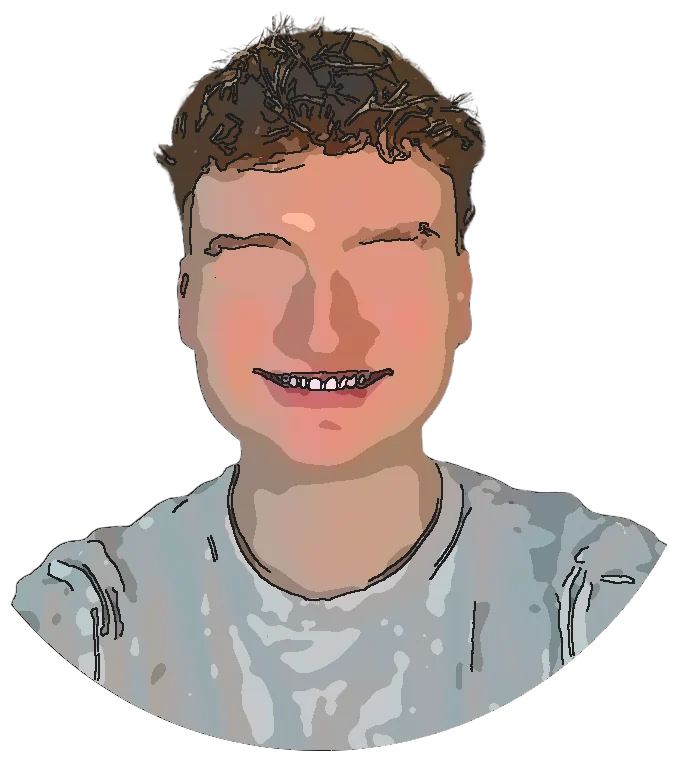
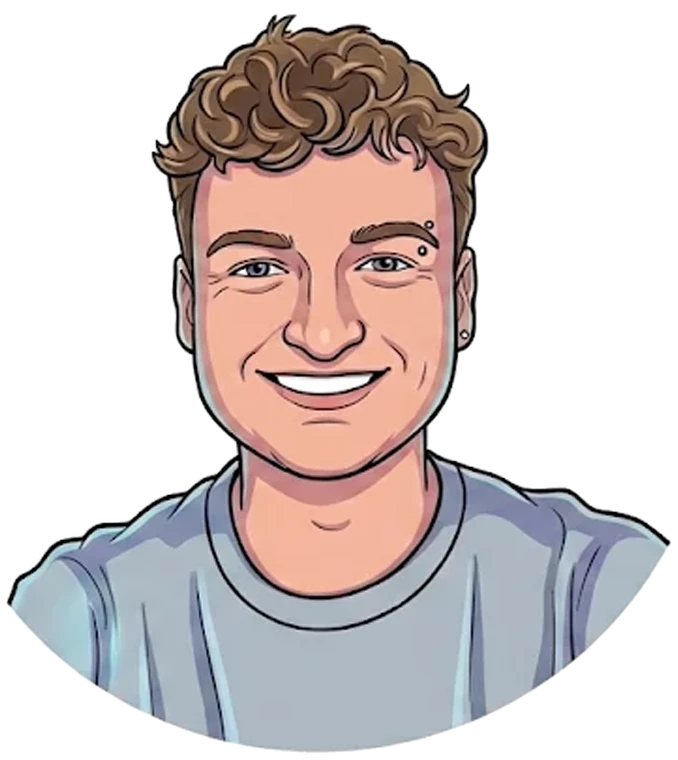
Portrait: Harry's illustrated version in the hover lens, with eyes that follow the cursor

diff --git a/index.html b/index.html
@@ -424,7 +424,7 @@ canvas.can-grab{cursor:var(--hand-grab)}
     <img class="me-photo" src="assets/me/me-photo.webp" alt="Harrison Greener" width="678" height="760">
     <div class="me-toon-layer" hidden>
       <img class="me-toon" src="assets/me/me-toon.webp" alt="" width="678" height="760">
-      <svg class="me-eyes" viewBox="0 0 678 760" aria-hidden="true"><g class="me-eye" transform="translate(259 269)"><path d="M-31 0 Q0 -19 31 0 Q0 19 -31 0Z" fill="#fff" stroke="#1F1F1F" stroke-width="3.5"/><g class="me-pupil"><circle r="10.5" fill="#6F8E95"/><circle r="5.5" fill="#1F1F1F"/><circle cx="3" cy="-3.5" r="2.4" fill="#fff"/></g></g><g class="me-eye" transform="translate(383 265)"><path d="M-31 0 Q0 -19 31 0 Q0 19 -31 0Z" fill="#fff" stroke="#1F1F1F" stroke-width="3.5"/><g class="me-pupil"><circle r="10.5" fill="#6F8E95"/><circle r="5.5" fill="#1F1F1F"/><circle cx="3" cy="-3.5" r="2.4" fill="#fff"/></g></g></svg>
+      <svg class="me-eyes" viewBox="0 0 678 760" aria-hidden="true"><g class="me-eye" transform="translate(258 270)"><clipPath id="meClip0"><path d="M-24 0 Q0 -14 24 0 Q0 12 -24 0Z"/></clipPath><path d="M-24 0 Q0 -14 24 0 Q0 12 -24 0Z" fill="#FBFBFA"/><g clip-path="url(#meClip0)"><g class="me-pupil"><circle r="9.5" fill="#647A99" stroke="#2E3A4E" stroke-width="1.6"/><circle r="4.6" fill="#1F1F1F"/><circle cx="2.6" cy="-3" r="2" fill="#fff"/></g></g></g><g class="me-eye" transform="translate(384 264)"><clipPath id="meClip1"><path d="M-23 0 Q0 -14 23 0 Q0 12 -23 0Z"/></clipPath><path d="M-23 0 Q0 -14 23 0 Q0 12 -23 0Z" fill="#FBFBFA"/><g clip-path="url(#meClip1)"><g class="me-pupil"><circle r="9.5" fill="#647A99" stroke="#2E3A4E" stroke-width="1.6"/><circle r="4.6" fill="#1F1F1F"/><circle cx="2.6" cy="-3" r="2" fill="#fff"/></g></g></g></svg>
     </div>
   </figure>
   </div></section>
@@ -1936,14 +1936,14 @@ ITEMS.filter((i) => i.kind === 'biz').forEach((cfg, n) => {
 (() => {
   const me = document.getElementById('miMe'); if (!me) return;
   const pupils = [...me.querySelectorAll('.me-pupil')], eyes = [...me.querySelectorAll('.me-eye')];
-  const EYE = [[259, 269], [383, 265]];
+  const EYE = [[258, 270], [384, 264]];
   let lr = 0, lrT = 0, raf = 0, mx = -1, my = -1;
   function look() {
     const b = me.getBoundingClientRect(), k = b.width / 678;
     pupils.forEach((p, i) => {
       const ex = b.left + EYE[i][0] * k, ey = b.top + EYE[i][1] * k;
       const dx = mx - ex, dy = my - ey, d = Math.hypot(dx, dy) || 1, f = Math.min(1, d / 260);
-      p.setAttribute('transform', `translate(${(dx / d * 13 * f).toFixed(2)} ${(dy / d * 6 * f).toFixed(2)})`);
+      p.setAttribute('transform', `translate(${(dx / d * 10 * f).toFixed(2)} ${(dy / d * 3.5 * f).toFixed(2)})`);
     });
   }
   function tick() {
@@ -1952,7 +1952,7 @@ ITEMS.filter((i) => i.kind === 'biz').forEach((cfg, n) => {
   }
   addEventListener('pointermove', (e) => { if (menu.hidden) return; mx = e.clientX; my = e.clientY; look(); }, { passive: true });
   me.addEventListener('pointermove', (e) => { const b = me.getBoundingClientRect(); me.style.setProperty('--lx', (e.clientX - b.left) + 'px'); me.style.setProperty('--ly', (e.clientY - b.top) + 'px'); });
-  const toonLayer = me.querySelector('.me-toon-layer'), TOON_READY = false;   // set true when the drawn version is in assets/me/me-toon.webp
+  const toonLayer = me.querySelector('.me-toon-layer'), TOON_READY = true;
   if (TOON_READY) toonLayer.hidden = false;
   me.addEventListener('pointerenter', () => { if (!TOON_READY) return; lrT = me.getBoundingClientRect().width * 0.24; if (!raf) raf = requestAnimationFrame(tick); });
   me.addEventListener('pointerleave', () => { lrT = 0; if (!raf) raf = requestAnimationFrame(tick); });
